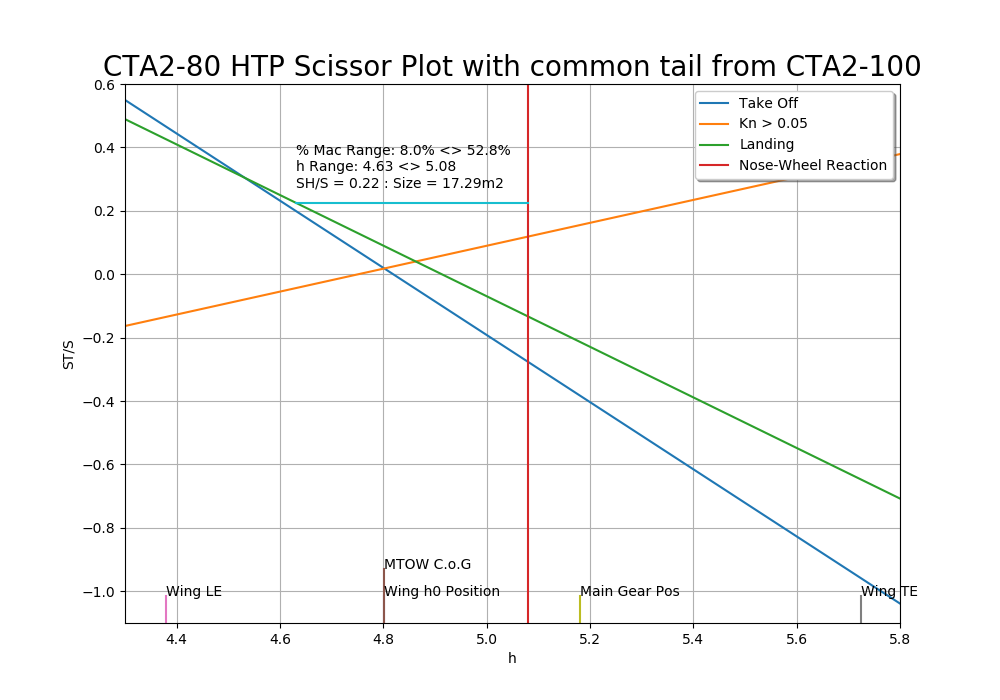
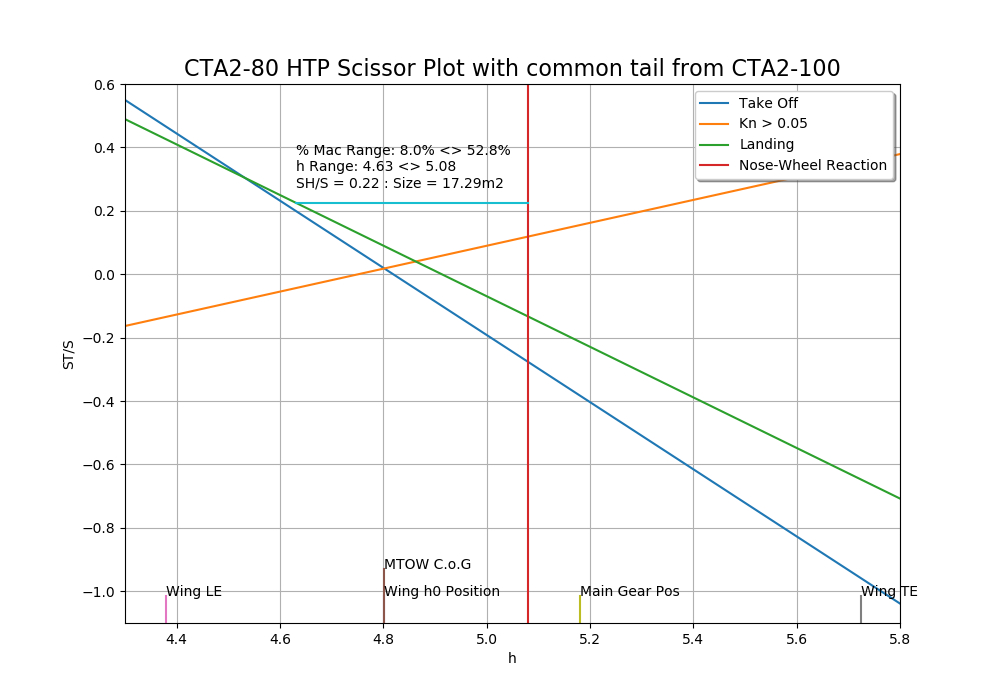
Correct title font sizes

Changed region(s): [[0.093, 0.06, 0.93, 0.12]]

diff --git a/scissorplot.py b/scissorplot.py
@@ -294,10 +294,10 @@ def plotit(r1, r2, search_mac, common=False):
     plt.grid(True)
     plt.legend(loc='upper right', shadow=True)
     if common is True:
-        plt.title("CTA2-80 HTP Scissor Plot with common tail from CTA2-100", size=20)
+        plt.title("CTA2-80 HTP Scissor Plot with common tail from CTA2-100", size=16)
         plt.savefig("tailplot-80-common.png")
     else:
-        plt.title("CTA2-80 HTP Scissor Plot", size=16)
+        plt.title("CTA2-80 HTP Scissor Plot", size=20)
         plt.savefig("tailplot.png")
     plt.show()
 
